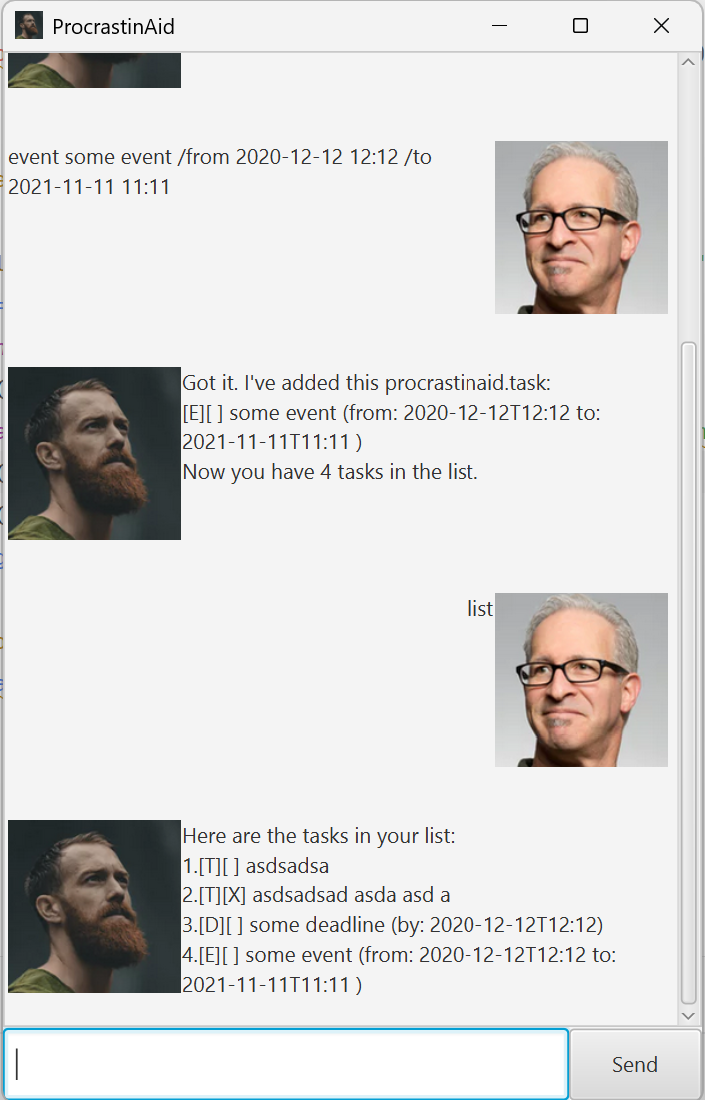
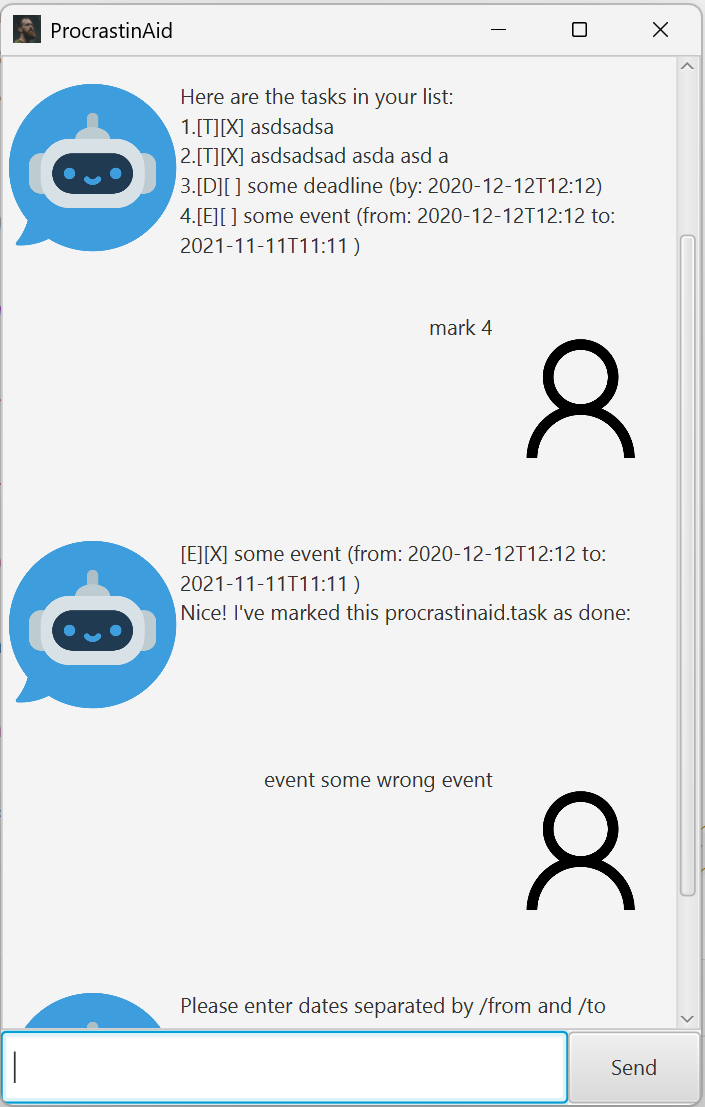
feat: add user guide and ui picture

diff --git a/docs/README.md b/docs/README.md
@@ -1,30 +1,31 @@
-# procrastinaid.ui.ProcrastinAid User Guide
+# ProcrastinAid User Guide
 
-// Update the title above to match the actual product name
+![Ui Image](Ui.png)
 
-// Product screenshot goes here
+The ProcrastinAid application is a task management tool designed to help users organize and prioritize their tasks 
+efficiently. With ProcrastinAid, users can add, delete, and mark tasks as done, set deadlines, and categorize tasks 
+with tags. The application features a user-friendly JavaFX GUI, making it easy to interact with and manage tasks 
+visually. ProcrastinAid aims to boost productivity by providing a clear overview of tasks and deadlines, ensuring 
+that users stay on top of their responsibilities.
 
-// Product intro goes here
+## Adding Tasks, Deadlines and Events
 
-## Adding deadlines
+You can add deadlines to tasks by specifying a date and time. ProcrastinAid will display the deadline in the task list,
+allowing you to keep track of upcoming deadlines easily.
 
-// Describe the action and its outcome.
+Example: `deadline Finish report /by 2021-09-30 23:59`
 
-// Give examples of usage
+Example: `event Meeting with team /from 2021-09-30 14:00 /to 2021-09-30 16:00`
 
-Example: `keyword (optional arguments)`
+Example: `todo Buy groceries`
 
-// A description of the expected outcome goes here
+## Feature List all tasks
 
-```
-expected output
-```
-
-## Feature ABC
-
-// Feature details
+You can view all tasks in the task list by entering the `list` command. ProcrastinAid will display all tasks, 
+including their type, description, and status.
 
 
-## Feature XYZ
+## Feature Mark and Unmark tasks as done
 
-// Feature details
+You can mark tasks as done by entering the `mark` command followed by the task number. ProcrastinAid will update the 
+task status to done, making it easy to track completed tasks.
